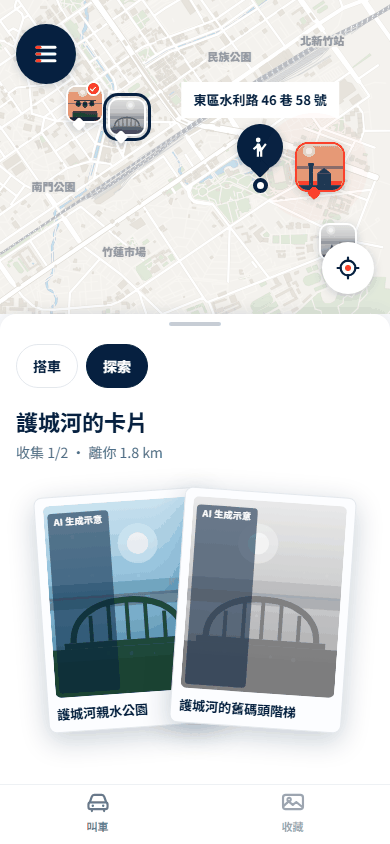
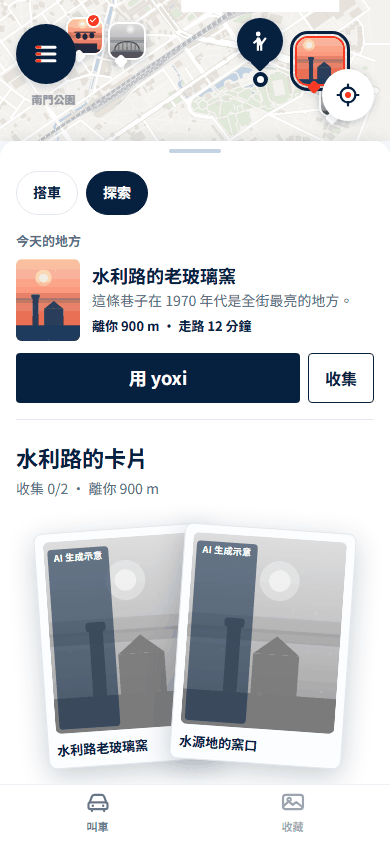
探索面板上拉時保留地點資訊並接續卡片

diff --git a/app/tests/specs/ride.spec.js b/app/tests/specs/ride.spec.js
@@ -148,6 +148,9 @@ T.spec('ride', function (t) {
     W.dispatchEvent(new W.PointerEvent('pointermove', { bubbles: true, clientY: box.top - 90, pointerId: 1 }));
     W.dispatchEvent(new W.PointerEvent('pointerup', { bubbles: true, clientY: box.top - 90, pointerId: 1 }));
     t.ok(!app.$('.ride-sheet').classList.contains('is-collapsed'), '向上拉後面板展開');
+    const intro = app.$('[data-area-intro]'), cards = app.$('[data-area-expanded]');
+    t.ok(intro.offsetHeight > 0 && intro.getBoundingClientRect().bottom <= cards.getBoundingClientRect().top, '展開時保留地點資訊，卡片接在下方');
+    t.ok(intro.querySelector('[data-act="use-yoxi"]') && intro.querySelector('[data-act="expand-cards"]'), '展開時兩個動作仍在');
     t.eq(app.$$('[data-area-expanded] [data-act="open-card"]').length, 2, '預設最近地區的兩張卡');
     t.eq(app.$$('[data-act="all-areas"], [data-act="select-area"]').length, 0, '展開後沒有多餘的地區清單');
     const firstDown = grip.getBoundingClientRect();
@@ -157,6 +160,7 @@ T.spec('ride', function (t) {
     await app.click('.spot[data-spot="market"]');
     t.eq(app.route().query.get('area'), 'market', '地圖選定東門');
     await app.click('[data-act="expand-cards"]');
+    t.includes(app.text('[data-area-intro]'), app.APP.place('market').name, '換地區後展開仍顯示新地點資訊');
     t.eq(app.$$('[data-area-expanded] [data-card]').length, 4, '東門四張卡');
     t.ok(!app.$('[data-act="peek-place"]'), '沒有地點詳情入口');
     await app.click('[data-act="open-card"][data-card="p1"]');

diff --git a/app/css/views/ride.css b/app/css/views/ride.css
@@ -171,8 +171,7 @@
 .ride-v2__actions { display: grid; grid-template-columns: 1fr auto; gap: var(--sp-2); margin-top: var(--sp-3); }
 .ride-v2__actions .btn-primary, .ride-v2__actions .btn-ghost { min-height: 50px; }
 .ride-v2__actions .btn-ghost { padding: 0 var(--sp-4); border: 1px solid var(--yoxi-navy); }
-.ride-v2__sheet:not(.is-collapsed) .ride-v2__intro { display: none; }
-.ride-v2__expanded { padding-bottom: var(--sp-5); }
+.ride-v2__expanded { margin-top: var(--sp-4); padding-top: var(--sp-3); padding-bottom: var(--sp-5); border-top: 1px solid var(--yoxi-line); }
 .ride-v2__section h2 { margin: var(--sp-2) 0 var(--sp-1); font-size: var(--fs-title); }
 .ride-v2__section p { margin: 0 0 var(--sp-4); color: var(--app-muted); font-size: var(--fs-sm); line-height: var(--lh-body); }
 .ride-v2__stack { display: flex; justify-content: center; align-items: center; width: 100%; min-height: 220px; padding: var(--sp-3) 0 var(--sp-4); }

diff --git a/app/js/views/system.js b/app/js/views/system.js
@@ -20,7 +20,7 @@
 (function () {
 'use strict';
 
-const VERSION = 'chengshi-app-v8';
+const VERSION = 'chengshi-app-v9';
 const PUSH_TIME = { am: '8:10', pm: '21:30' };       /* 推播浮層上的鎖定畫面時間（demo 設定，不是真實時間） */
 const PUSH_KEY = { am: 'pushAm', pm: 'pushPm' };
 const PUSH_MAX = 2;                                  /* 一天最多兩則 */

diff --git a/app/sw.js b/app/sw.js
@@ -16,7 +16,7 @@
      }
    ========================================================================== */
 
-const VERSION = 'chengshi-app-v8';
+const VERSION = 'chengshi-app-v9';
 
 // 路徑相對於 sw.js（app/）。順序照 ARCHITECTURE §2 的載入順序。
 const PRECACHE = [

diff --git a/app/tools/shoot-app.py b/app/tools/shoot-app.py
@@ -78,8 +78,8 @@ RUN_DROPOFF = ("var p=APP.place('glass-kiln');APP.store.set('dropoff',{id:p.id,n
                "setAt:new Date().toISOString(),via:'e'});APP.nav.go('/ride',{replace:true,dir:'none'});")
 RUN_SELECT = "var s=document.querySelector('#view .spot[data-spot=\"moat\"]');if(s)s.click();"
 RUN_STACK = "var b=document.querySelector('[data-act=\"expand-cards\"]');if(b)b.click();"
-RUN_CARDS = RUN_SELECT + RUN_STACK
-RUN_FLOAT = RUN_CARDS + "var c=document.querySelector('[data-act=\"open-card\"]');if(c)c.click();"
+RUN_CARDS = RUN_STACK
+RUN_FLOAT = RUN_SELECT + RUN_STACK + "var c=document.querySelector('[data-act=\"open-card\"]');if(c)c.click();"
 RUN_FLOAT_BACK = RUN_FLOAT + "var f=document.querySelector('[data-act=\"flip-card\"]');if(f)f.click();"
 RUN_STORY = "var b=document.querySelector('[data-act=\"toggle-story\"]');if(b)b.click();"
 

diff --git a/app/ARCHITECTURE.md b/app/ARCHITECTURE.md
@@ -35,7 +35,7 @@ app 比原型多出來的東西（原型是一疊畫面，app 要能走完一圈
 
 ### 雙主頁的叫車面板
 
-- `#/ride` 預設是一般搭車地圖與叫車欄位；搭車面板只能往下拉收合，收合時跟手、放開後接續動畫，點「展開搭車」平順恢復，不接受向上拖曳。面板頂端的「探索」切到 `#/ride?mode=explore`，地圖顯示四個附近地點，並依 `APP.place(id).dist` 預選最近的地區。探索面板收合態用一張精簡地點卡顯示名稱、短句、距離與步行分鐘，動作是「用 yoxi」及「收集」；上拉或點「收集」直接顯示該地區的幾張疊放卡片，點卡片開啟可翻面的懸浮小卡，不進地點詳情頁。地區只從地圖圖釘切換，不另設附近地區清單。選點後網址寫成 `#/ride?mode=explore&area=<地點 id>`；往下拉只收合面板，仍留在探索。從地圖點選會先收合面板；切回「搭車」清除探索 query。
+- `#/ride` 預設是一般搭車地圖與叫車欄位；搭車面板只能往下拉收合，收合時跟手、放開後接續動畫，點「展開搭車」平順恢復，不接受向上拖曳。面板頂端的「探索」切到 `#/ride?mode=explore`，地圖顯示四個附近地點，並依 `APP.place(id).dist` 預選最近的地區。探索面板收合態用一張精簡地點卡顯示名稱、短句、距離與步行分鐘，動作是「用 yoxi」及「收集」；上拉或點「收集」時保留完整地點卡與兩個動作，卡片堆接在下方，內容過長可捲動。點卡片開啟可翻面的懸浮小卡，不進地點詳情頁。地區只從地圖圖釘切換，不另設附近地區清單。選點後網址寫成 `#/ride?mode=explore&area=<地點 id>`；往下拉只收合面板，仍留在探索。從地圖點選會先收合面板；切回「搭車」清除探索 query。
 - 四組展示對應：`glass-kiln → p11,p17`、`market → p1,p2,p7,p20`、`moat → p3,p19`、`hill → p6,p21`。群組只定義卡片歸屬，收集與公里數仍由 `STATE`／`MOCK`／`APP.fmt` 計算；卡片不連地點詳情。
 - 舊 `/place/:id`、探索與回顧路由仍能直接開啟，供既有資料和流程對照；新底欄和叫車卡片面板不導向它們。
 
